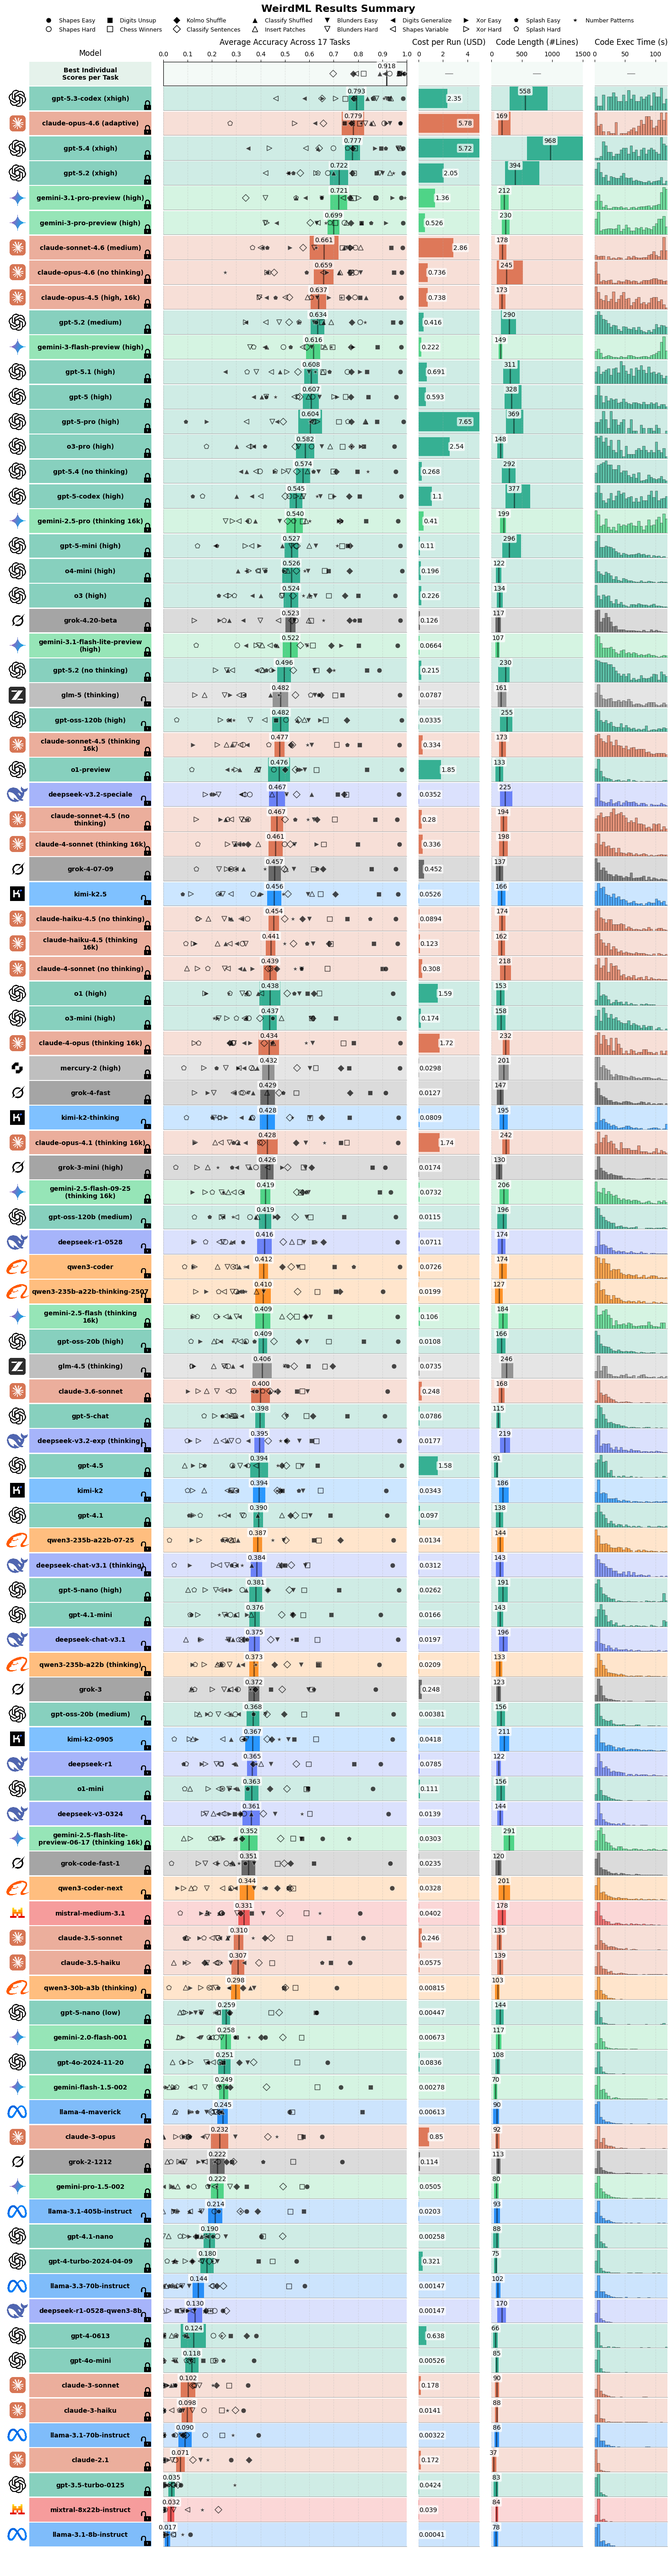
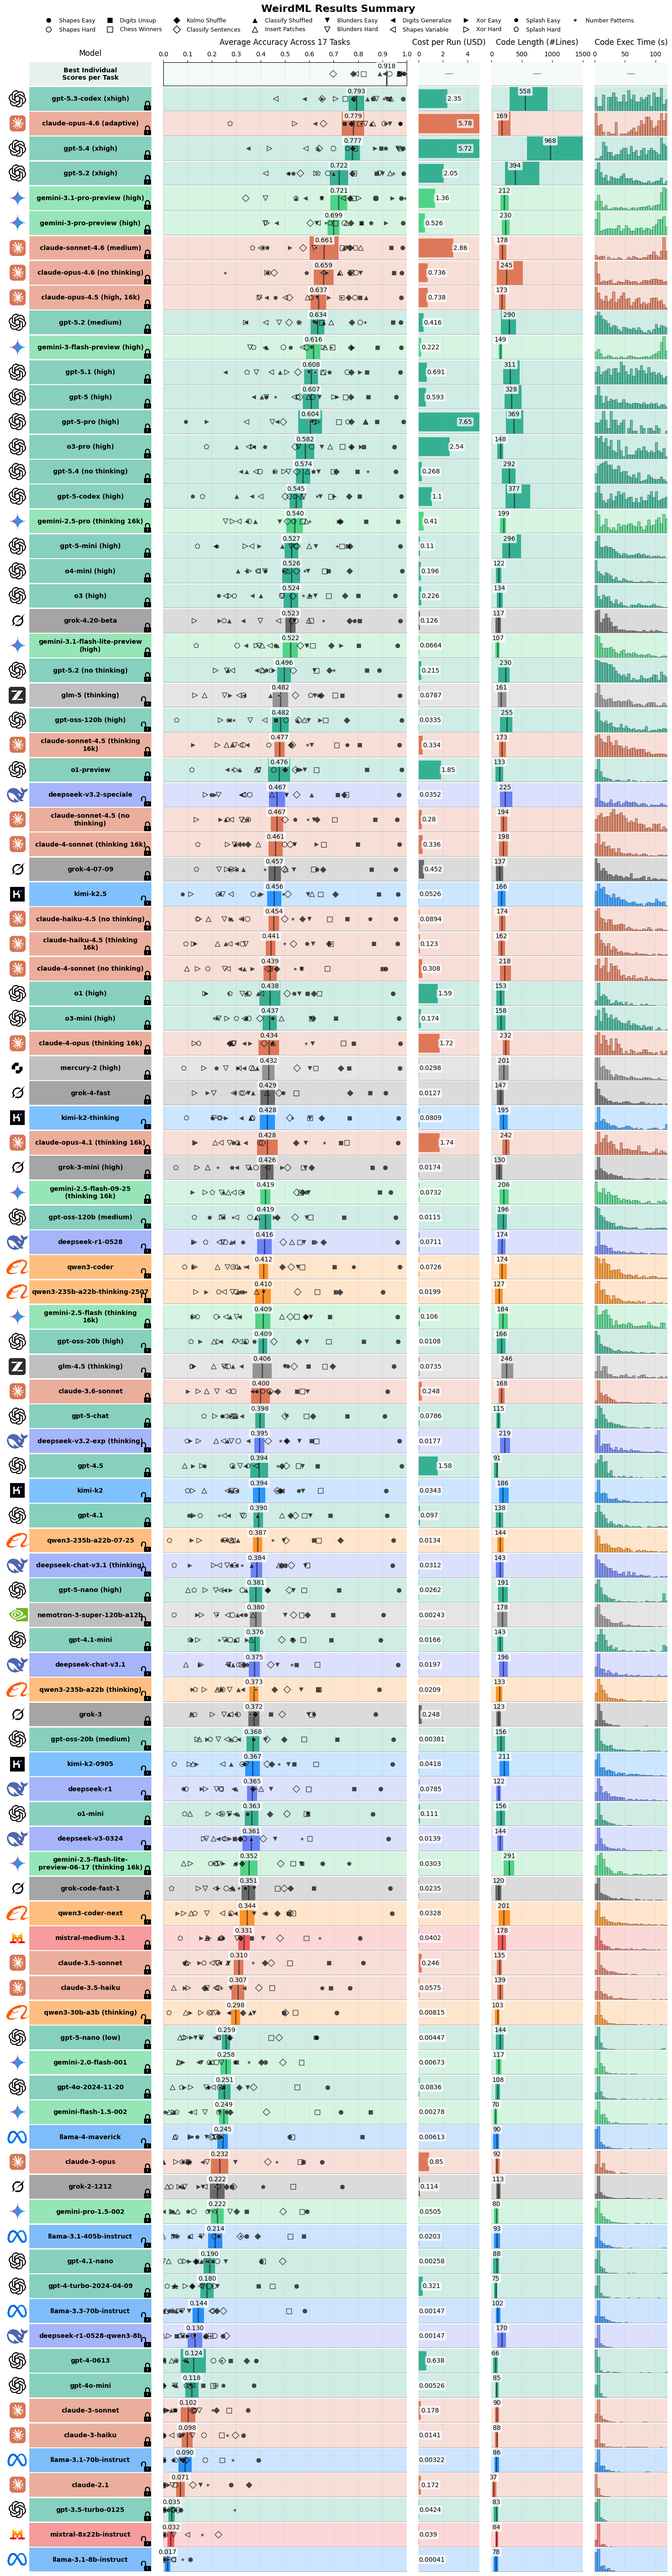
Add Nvidia Nemotron Super to WeirdML benchmark
- Add Nvidia logo icon and company mapping in interactive plot
- Update data CSV and model summary image with new results

Changed region(s): [[0.0, 0.0, 1.0, 0.9993]]

diff --git a/weirdml_interactive.html b/weirdml_interactive.html
@@ -344,6 +344,7 @@ title: WeirdML Interactive Plot
             'ZhipuAI': '#10b981',
             'Gemma': '#2ecc71',
             'Inception': '#1a1a2e',
+            'Nvidia': '#76b900',
             'Other': '#888888'
         };
 
@@ -362,7 +363,8 @@ title: WeirdML Interactive Plot
             'Moonshot': { path: 'assets/icons/kimi_logo.png', size: 19 },      // 225 × 0.1 × 0.85
             'Gemma': { path: 'assets/icons/gemma-logo.png', size: 35 },        // 1024 × 0.04 × 0.85
             'ZhipuAI': { path: 'assets/icons/z-ai_logo.png', size: 25 },        // 225 × 0.13 × 0.85
-            'Inception': { path: 'assets/icons/inception_icon.png', size: 22 }  // 28 × 0.85
+            'Inception': { path: 'assets/icons/inception_icon.png', size: 22 },  // 28 × 0.85
+            'Nvidia': { path: 'assets/icons/nvidia_logo.png', size: 22 }       // 640 × 0.04 × 0.85
         };
 
         // Preload icons
@@ -395,6 +397,7 @@ title: WeirdML Interactive Plot
             if (name.includes('kimi')) return 'Moonshot';
             if (name.includes('glm')) return 'ZhipuAI';
             if (name.includes('mercury')) return 'Inception';
+            if (name.includes('nemotron')) return 'Nvidia';
 
             return 'Other';
         }
